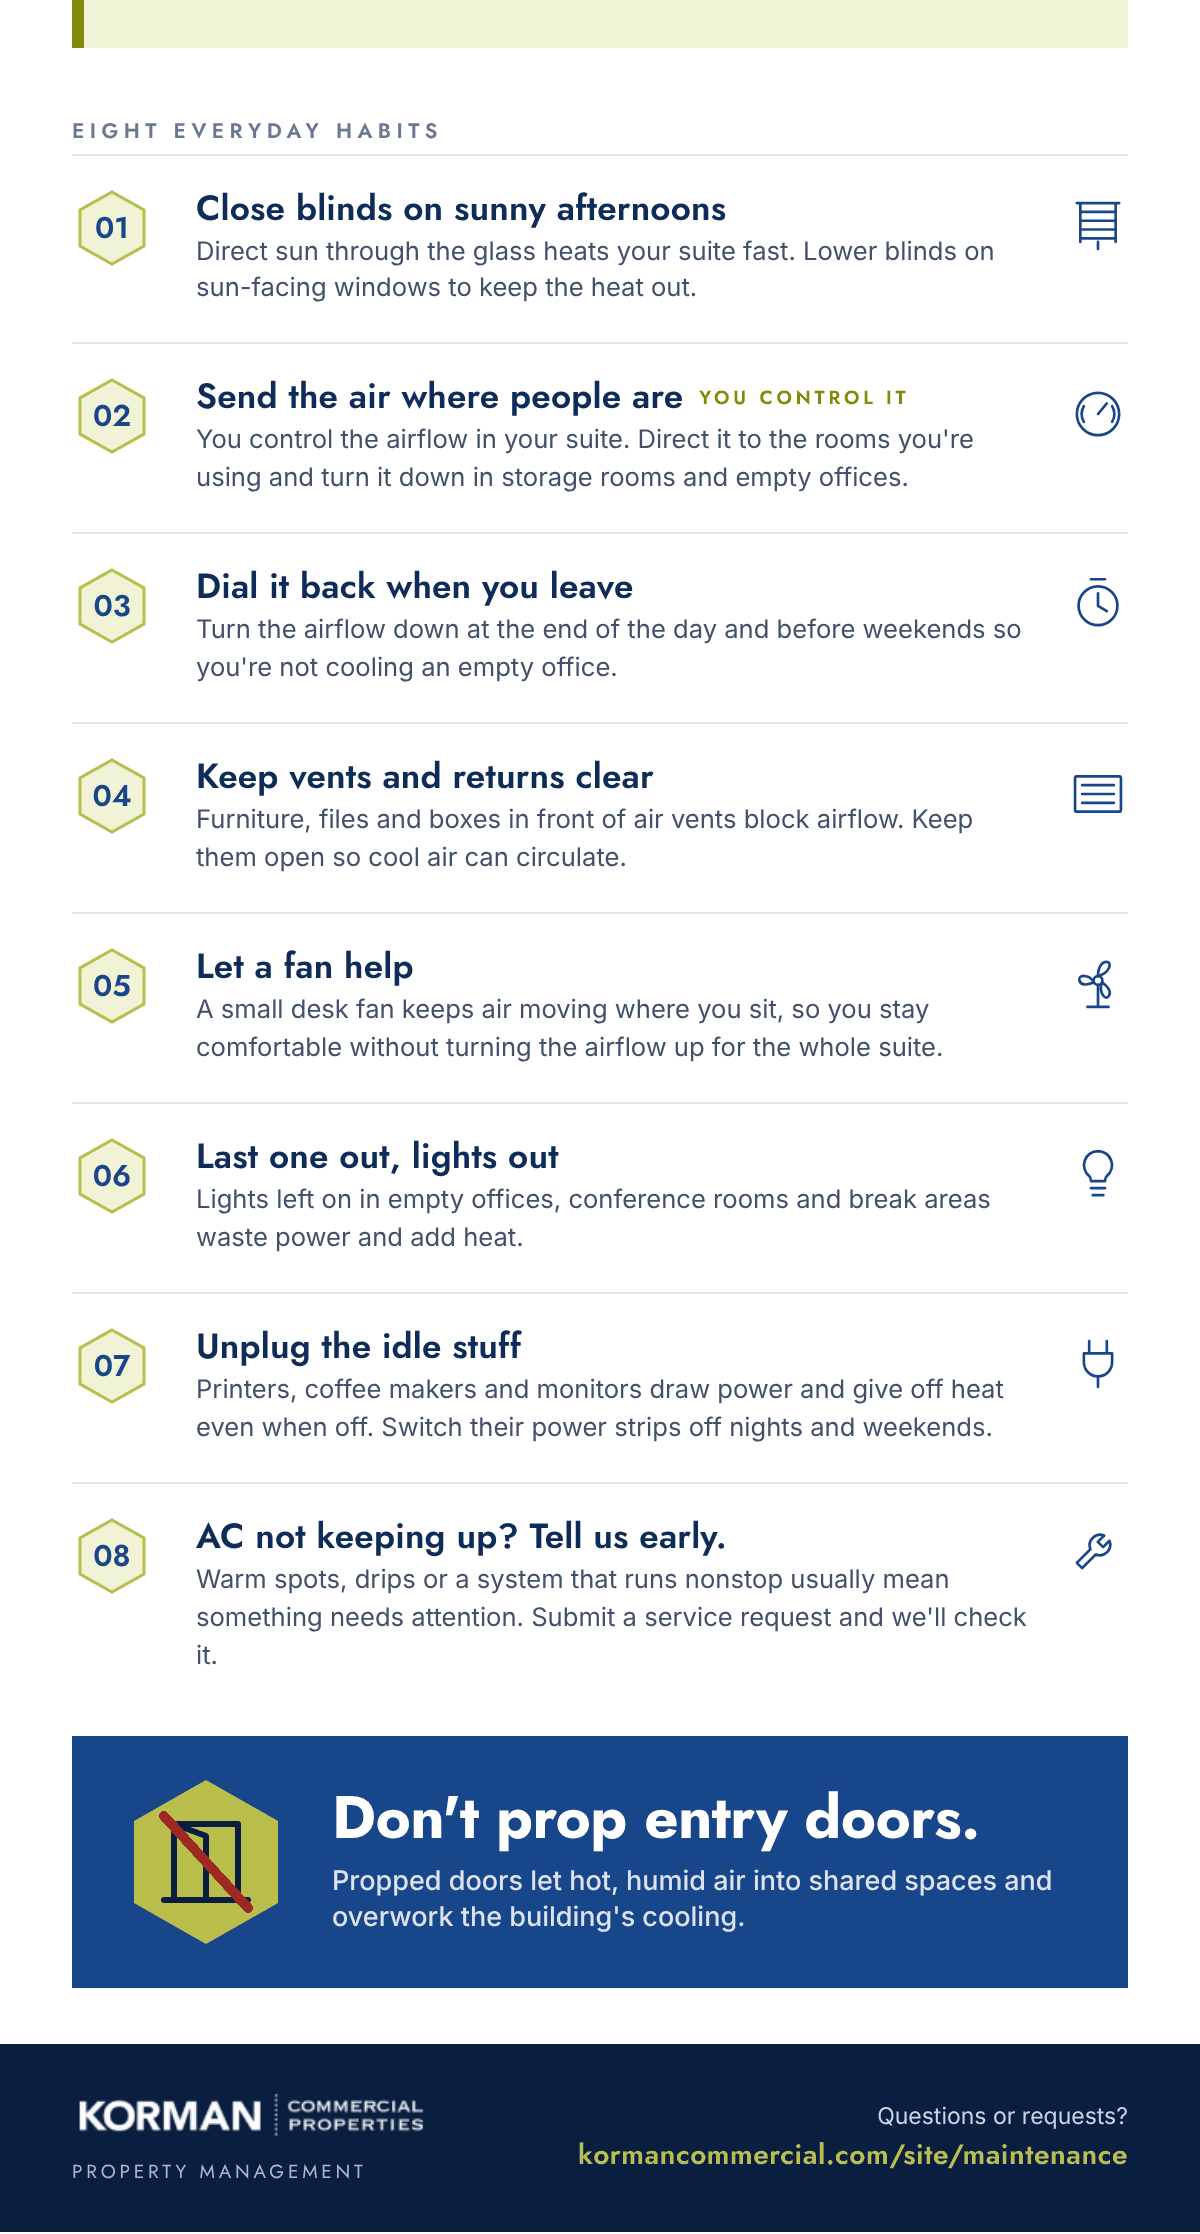
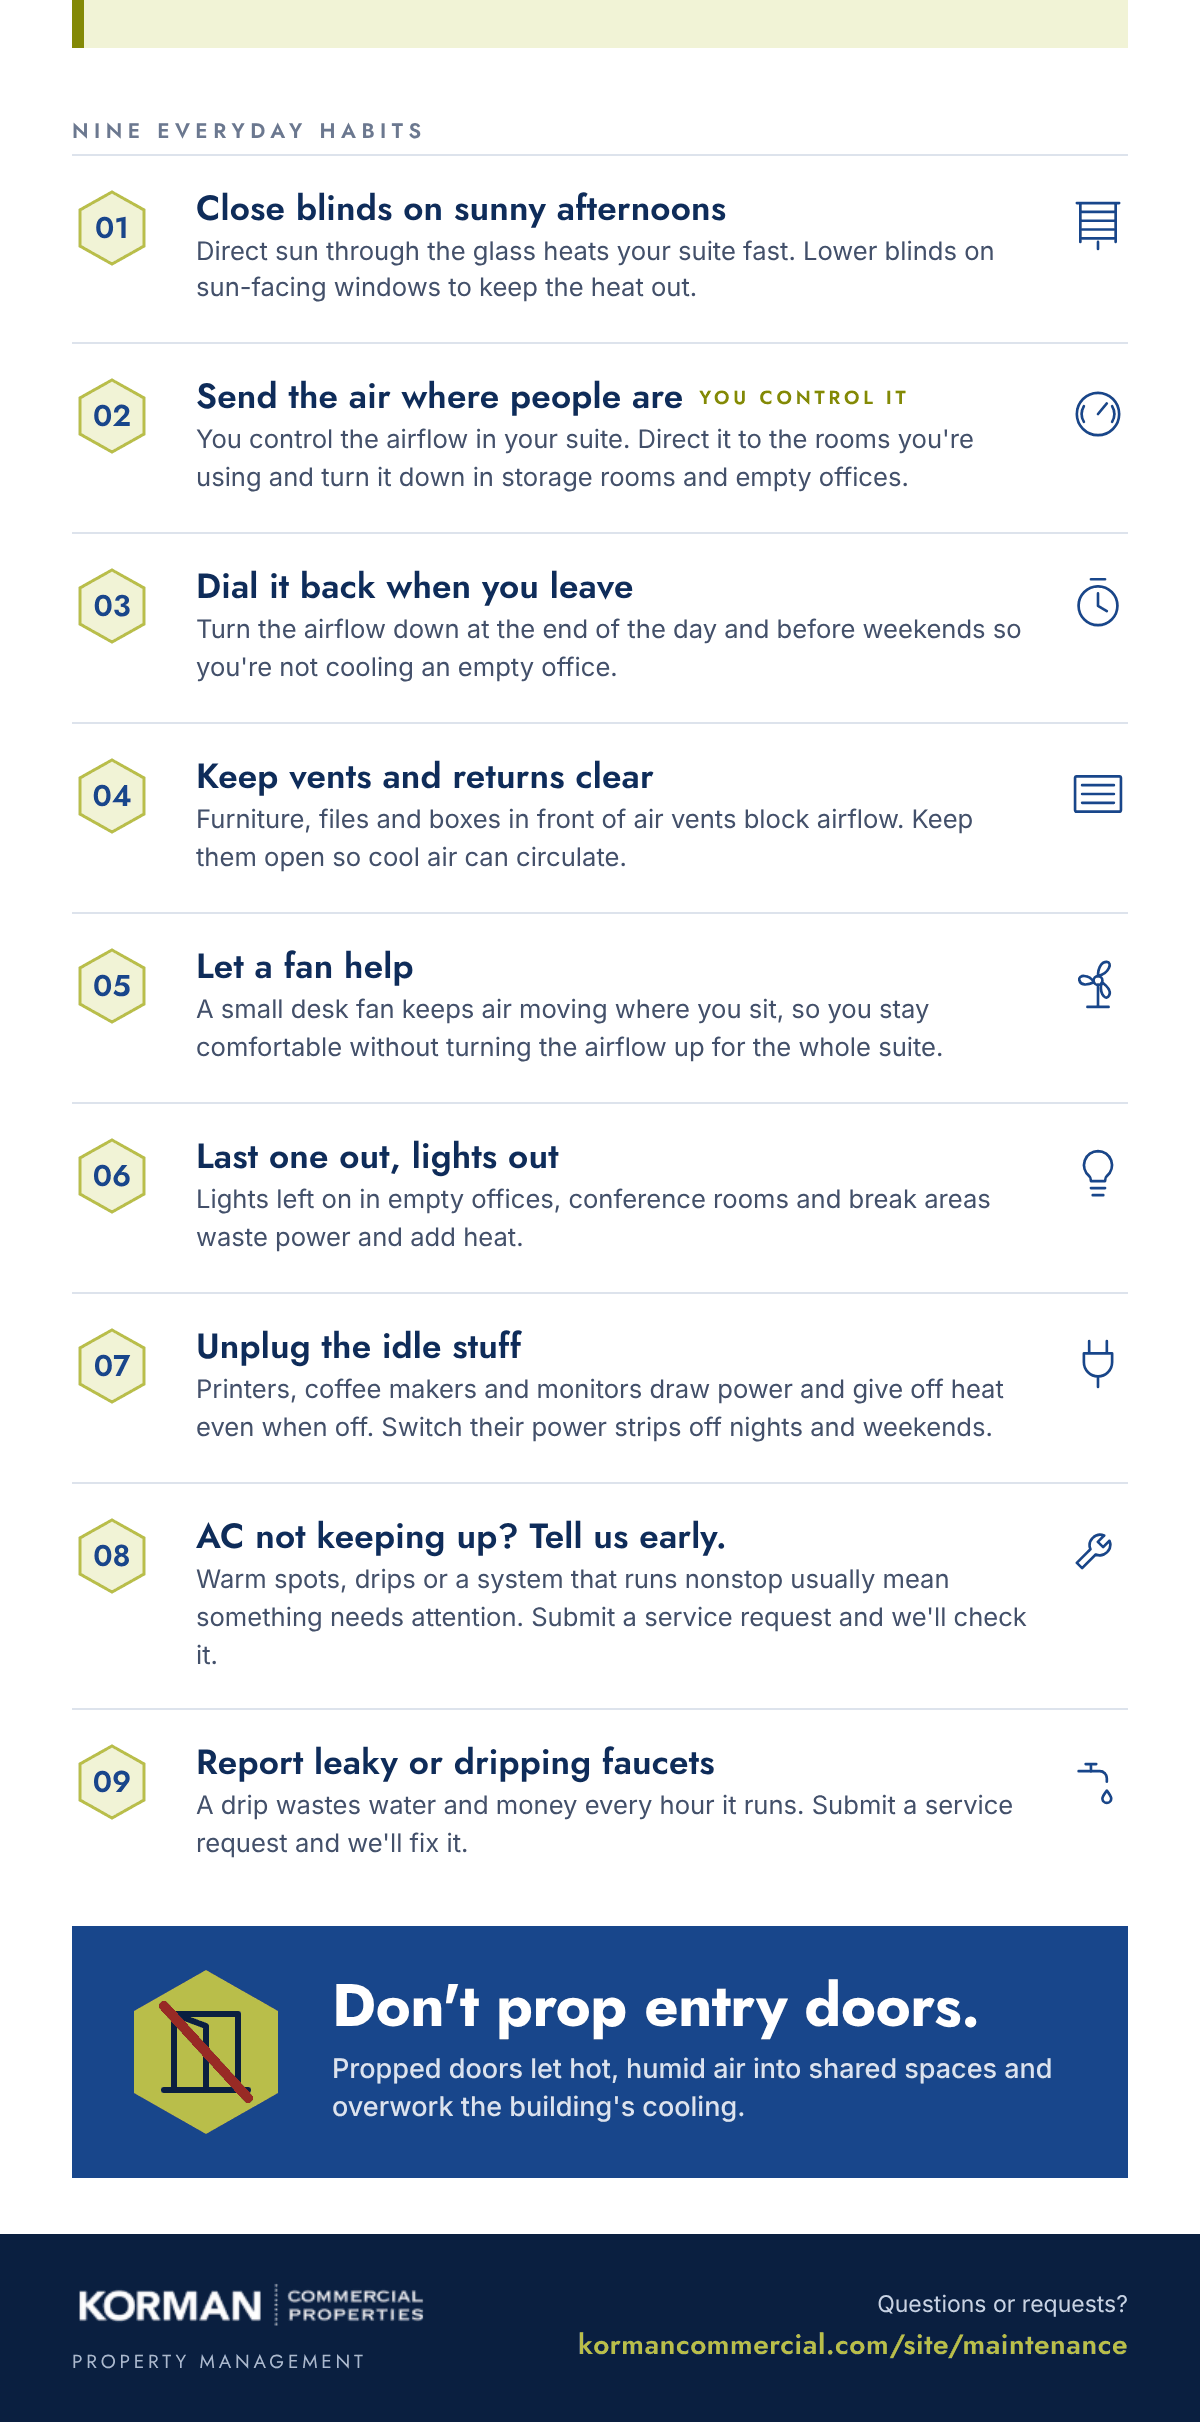
Tenant Emails: add "Report leaky or dripping faucets" to Winter and Summer Tips
Greg's suggestion. Both tip sheets now carry nine habits; the graphics are
re-rendered and their heights updated so the live button still sits in the
callout.

Claude-Session: https://claude.ai/code/session_01Lp9Ae4FrKt2x5NSTsnXcv5

diff --git a/lib/communications/templates.ts b/lib/communications/templates.ts
@@ -45,19 +45,19 @@ export const TENANT_TEMPLATES: TenantTemplate[] = [
   {
     id: "winter-tips", name: "Winter Tips", kind: "seasonal",
     subject: "Winter Tips + Request Motion-Sensor Lighting",
-    blurb: "Eight habits to stay warm and cut energy costs, plus the motion-sensor offer and the space heater rule.",
-    button: { label: "Submit a request", width: 176 }, topHeight: 580, bottomHeight: 1136,
+    blurb: "Nine habits to stay warm and cut energy costs, plus the motion-sensor offer and the space heater rule.",
+    button: { label: "Submit a request", width: 176 }, topHeight: 580, bottomHeight: 1231,
     altTop: "Neshaminy Interplex Winter Efficiency Guide. Warm office, lighter footprint. Want motion-sensor lighting in your suite? Submit a service request and we'll take it from there.",
-    altBottom: "Eight everyday habits for a greener winter. No space heaters: prohibited by the Bensalem Fire Marshal and Property Management.",
+    altBottom: "Nine everyday habits for a greener winter, including reporting leaky or dripping faucets. No space heaters: prohibited by the Bensalem Fire Marshal and Property Management.",
     schedule: { remindFrom: { month: 11, day: 1 }, due: { month: 11, day: 15 } },
   },
   {
     id: "summer-tips", name: "Summer Tips", kind: "seasonal",
     subject: "Summer Tips + Request Motion-Sensor Lighting",
-    blurb: "Eight habits to stay cool and cut energy costs, plus the motion-sensor offer and a reminder not to prop doors.",
-    button: { label: "Submit a request", width: 176 }, topHeight: 580, bottomHeight: 1117,
+    blurb: "Nine habits to stay cool and cut energy costs, plus the motion-sensor offer and a reminder not to prop doors.",
+    button: { label: "Submit a request", width: 176 }, topHeight: 580, bottomHeight: 1212,
     altTop: "Neshaminy Interplex Summer Efficiency Guide. Cool office, lighter footprint. Want motion-sensor lighting in your suite? Submit a service request and we'll take it from there.",
-    altBottom: "Eight everyday habits for a cooler, more efficient summer. Please do not prop entry doors.",
+    altBottom: "Nine everyday habits for a cooler, more efficient summer, including reporting leaky or dripping faucets. Please do not prop entry doors.",
     schedule: { remindFrom: { month: 5, day: 15 }, due: { month: 6, day: 1 } },
   },
   {
